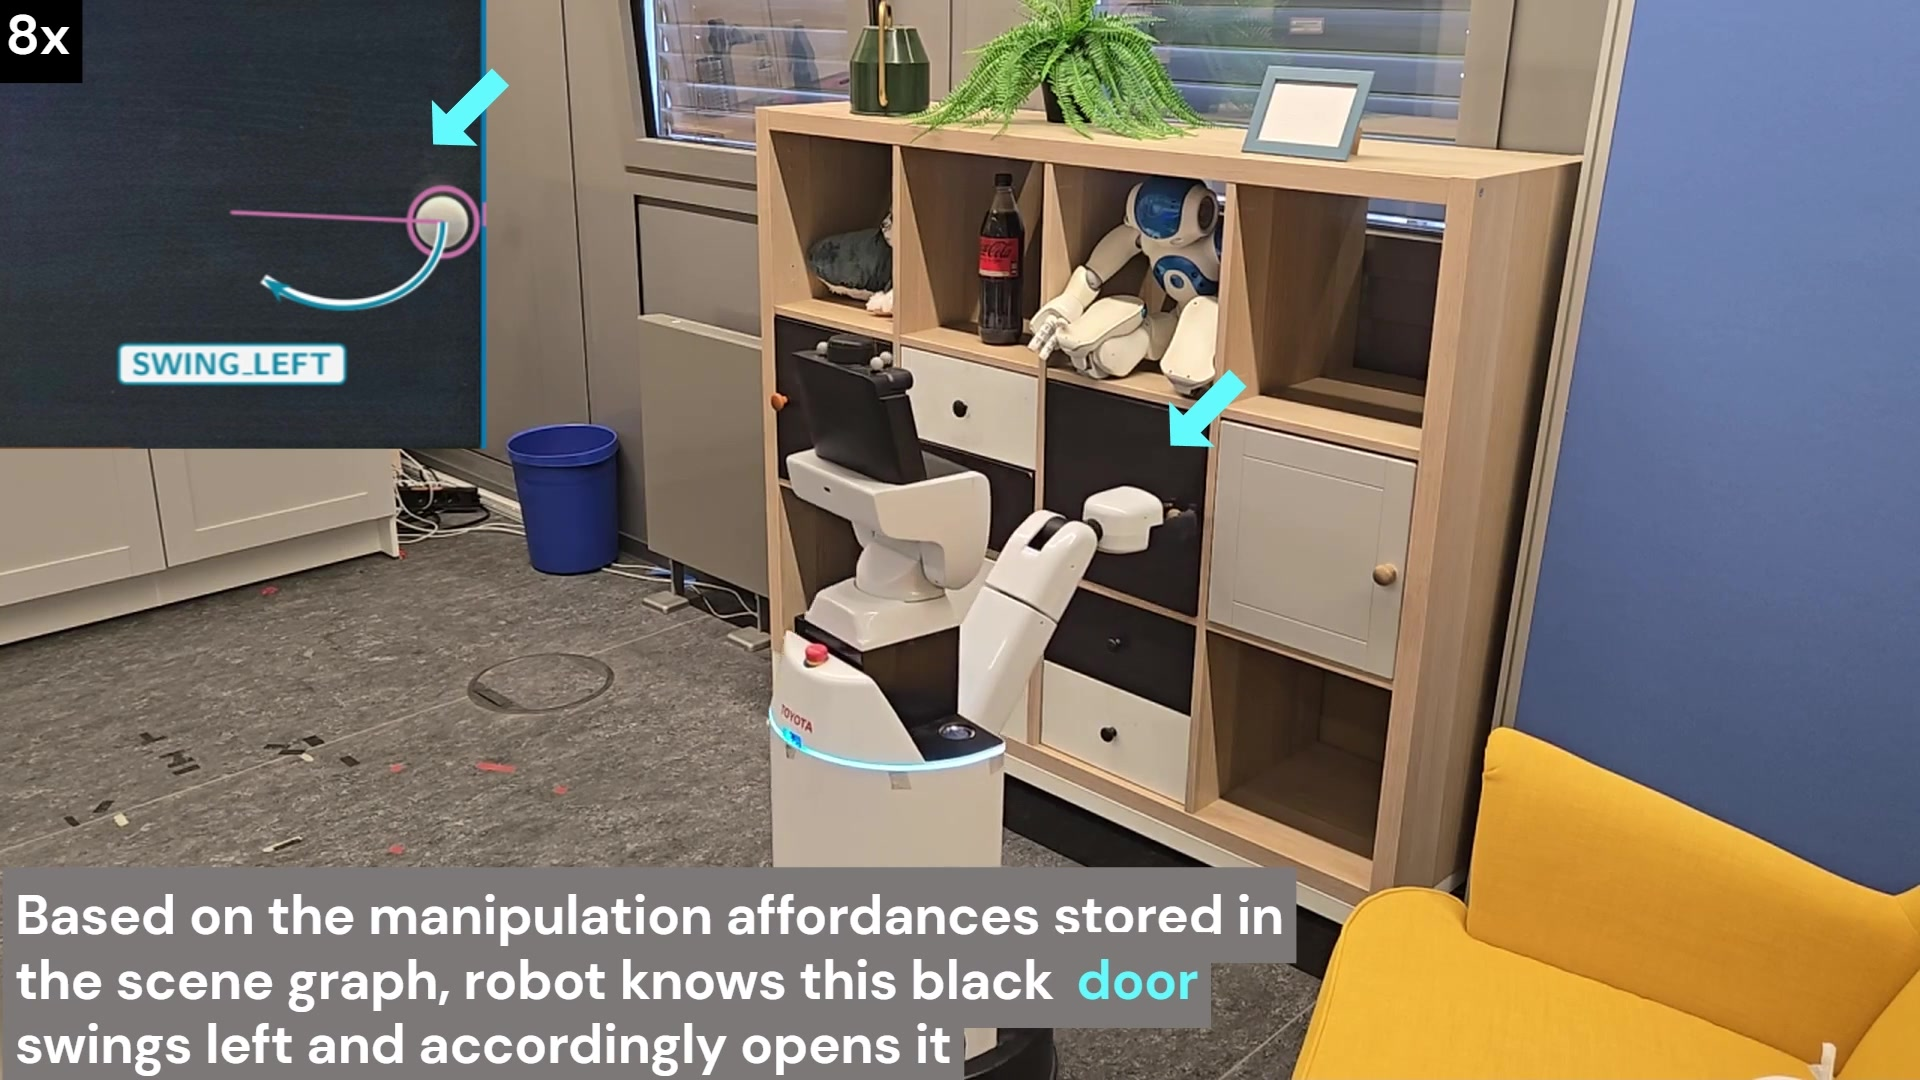
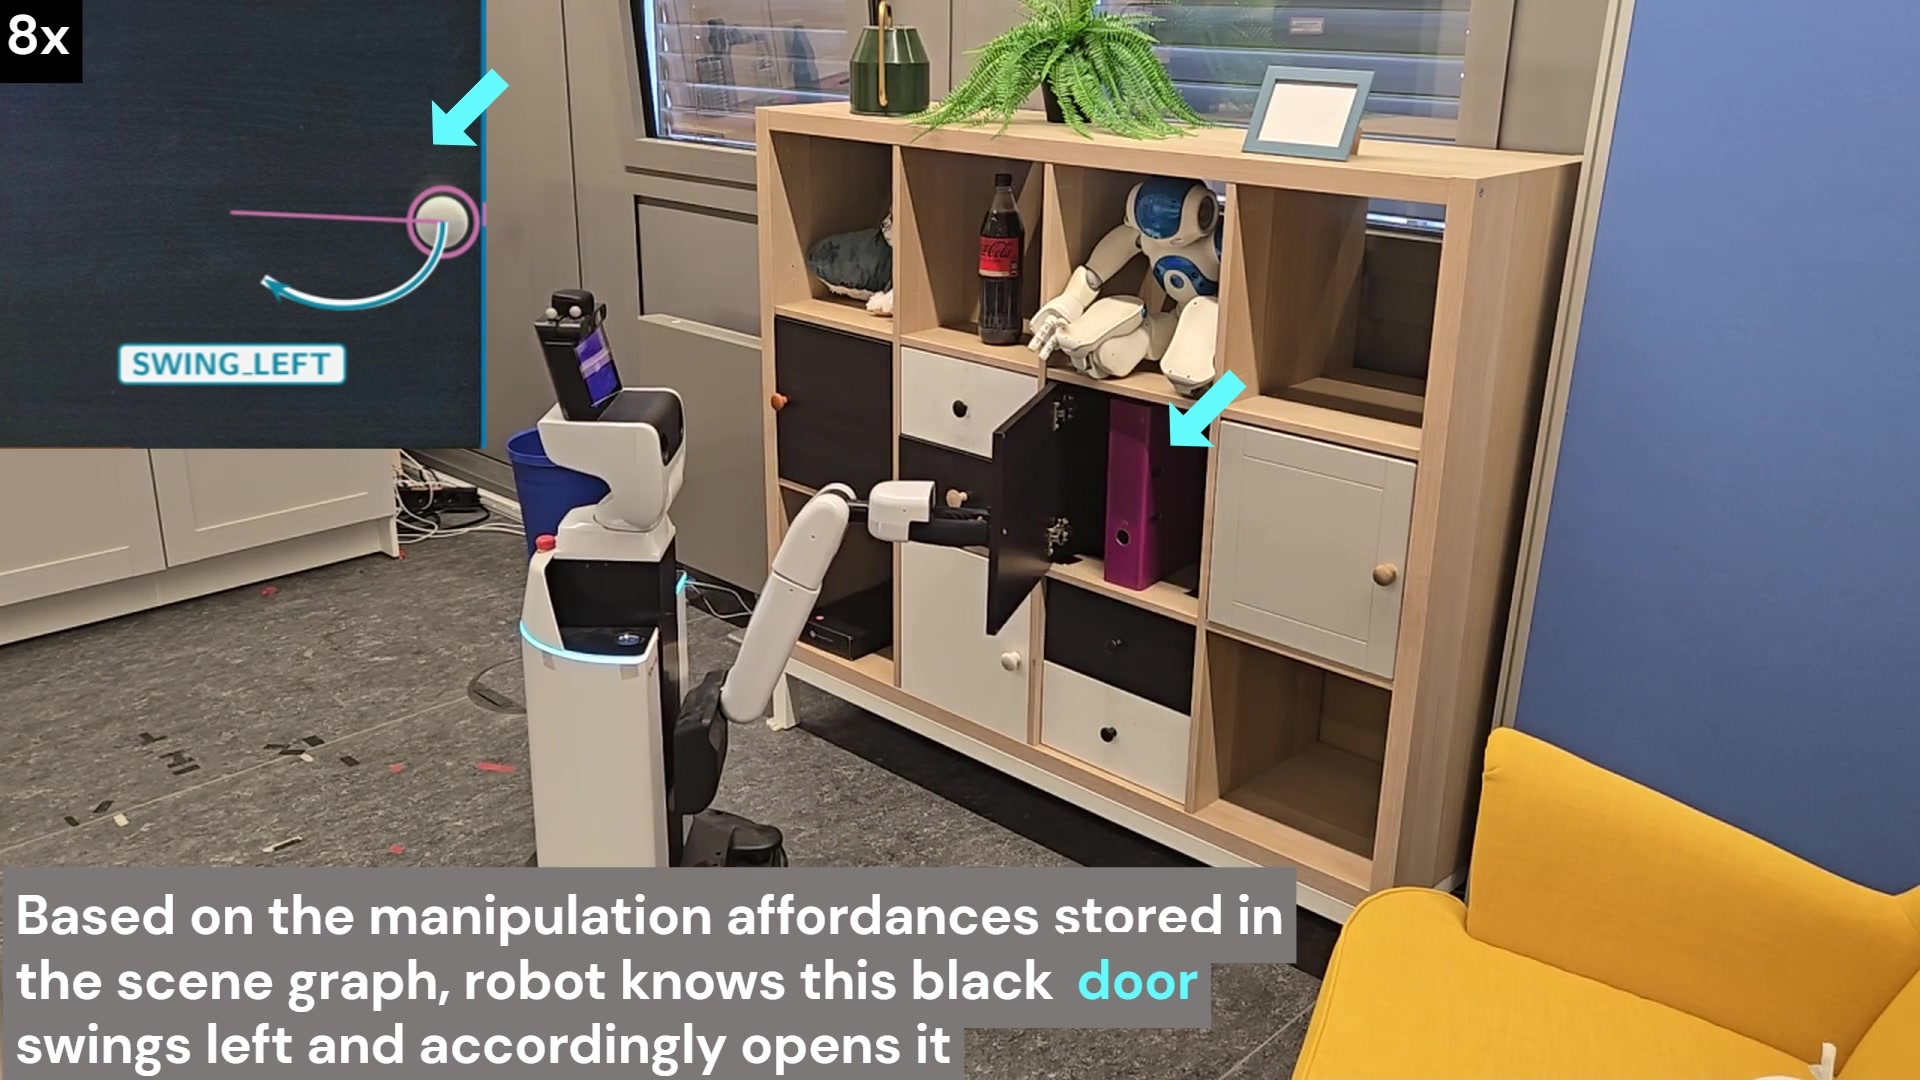
Use O-STaR frame at 02:04

Changed region(s): [[0.25, 0.2444, 0.6562, 0.825], [0.5, 0.9472, 0.5625, 1.0]]

diff --git a/docs/SESSION_SUMMARY.md b/docs/SESSION_SUMMARY.md
@@ -5,7 +5,7 @@
 - Replaced the downloadable academic CV and industry résumé with the current rebuilt PDFs.
 - Updated the legacy `cv.pdf` academic-CV alias for consistency.
 - Replaced the short O-STaR preview with the supplied full paper video and removed its silent audio track.
-- Replaced the O-STaR poster with the video frame at 02:03.
+- Replaced the O-STaR poster with the video frame at 02:04.
 
 Verification:
 
@@ -13,7 +13,7 @@ Verification:
 - Confirmed the academic CV is six A4 pages and the industry résumé is two A4 pages.
 - Confirmed neither PDF contains a telephone number in its extracted text.
 - Confirmed the O-STaR video uses browser-compatible H.264 video and contains no audio stream.
-- Visually inspected the 1920 × 1080 O-STaR poster extracted at 02:03.
+- Visually inspected the 1920 × 1080 O-STaR poster extracted at 02:04.
 - `git diff --check` completed without whitespace errors.
 
 ## 2026-10-06 13:10 CEST — Selected-publication BibTeX

diff --git a/changelog.rst b/changelog.rst
@@ -6,7 +6,7 @@ Changelog
 
 * Updated the downloadable academic CV and industry résumé.
 * Replaced the O-STaR preview with the full paper video and removed its silent audio track.
-* Updated the O-STaR poster image to the video frame at 02:03.
+* Updated the O-STaR poster image to the video frame at 02:04.
 
 2026-10-06
 ----------

diff --git a/docs/RECENT_COMMITS.md b/docs/RECENT_COMMITS.md
@@ -4,7 +4,7 @@
 
 - Replaced the downloadable academic CV and industry résumé with their current versions.
 - Replaced the O-STaR preview with the full paper video.
-- Updated its poster image to the frame at 02:03.
+- Updated its poster image to the frame at 02:04.
 
 ## 2026-10-06 — Selected-publication BibTeX
 
